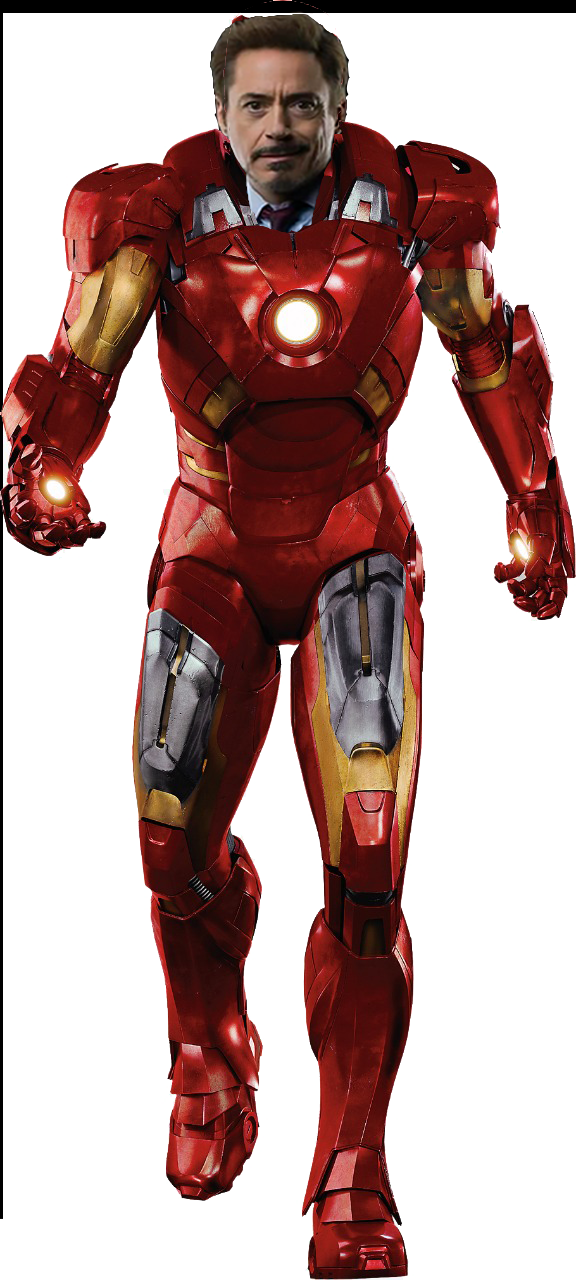
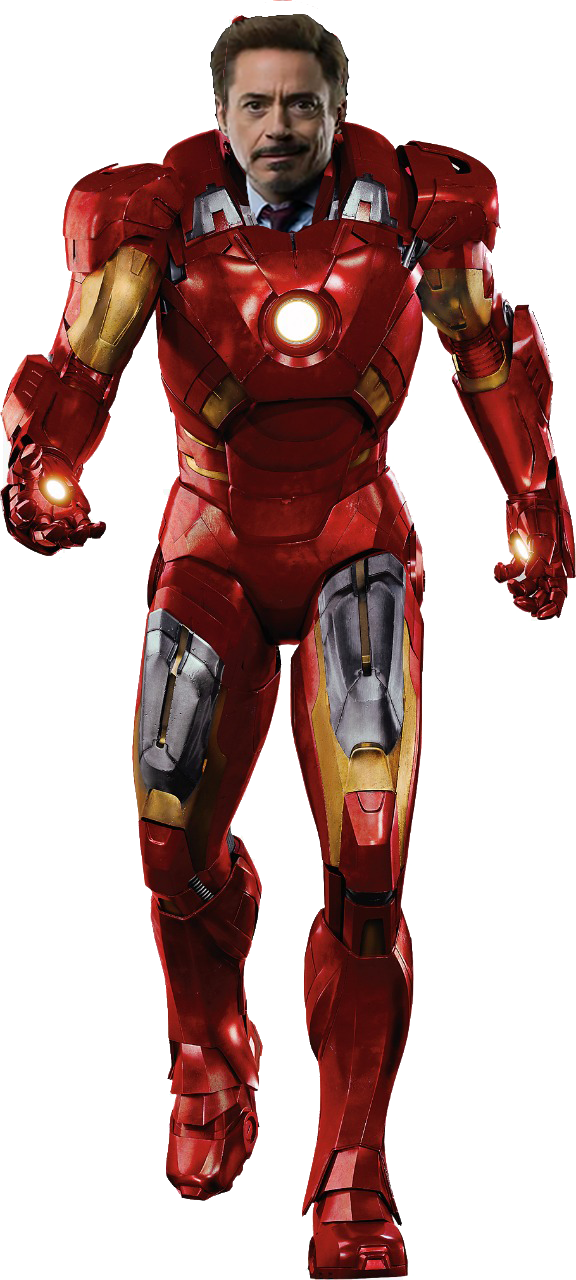
Imagens tarso

Changed region(s): [[0.0, 0.0, 1.0, 0.9375]]

diff --git a/Forca.js b/Forca.js
@@ -404,7 +404,7 @@ function sobeImagens(){
             break;
         case 2:
             var imagem = document.querySelector("#HomemDeFerro");
-            imagem.setAttribute('src', 'HomemDeFErroFundo1.png');
+            imagem.setAttribute('src', '2.png');
             //document.getElementById("imagem").style.background = "url('./2.png')";
             break;       
         /* default:
